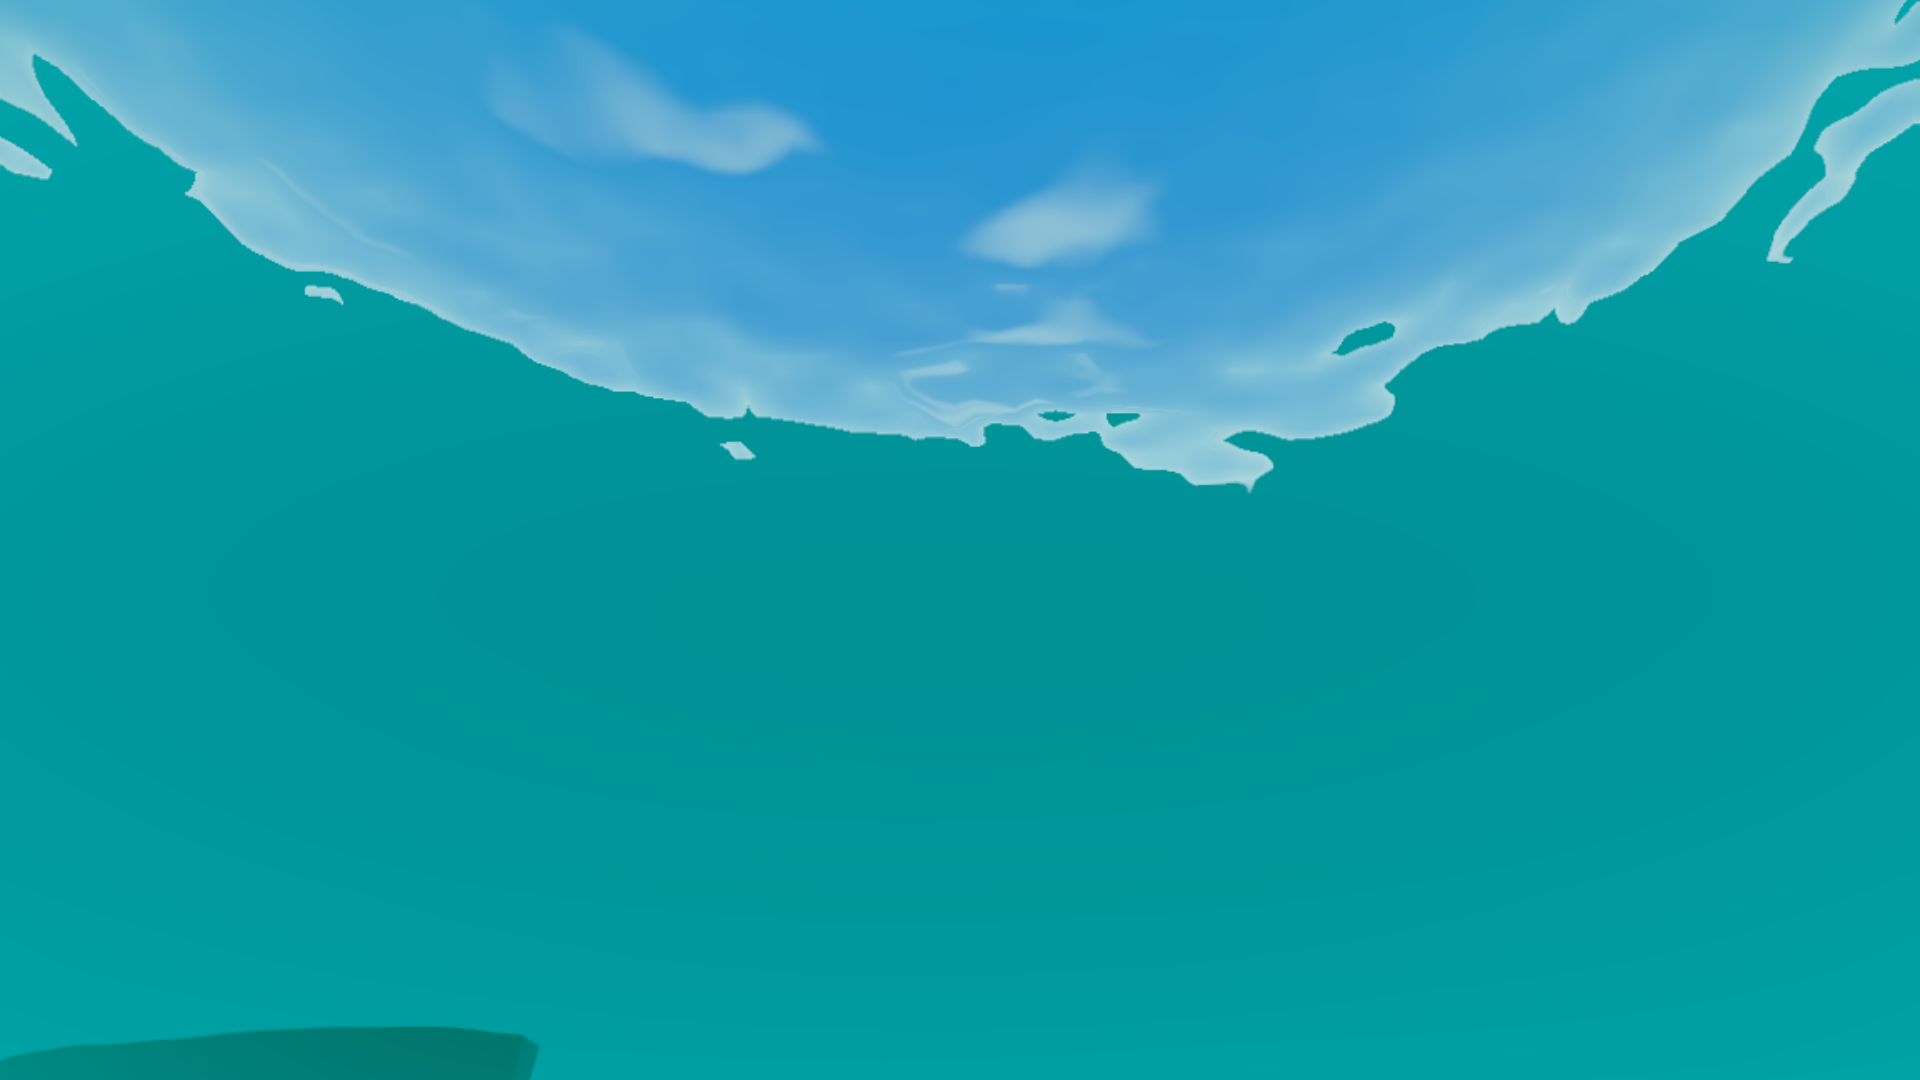
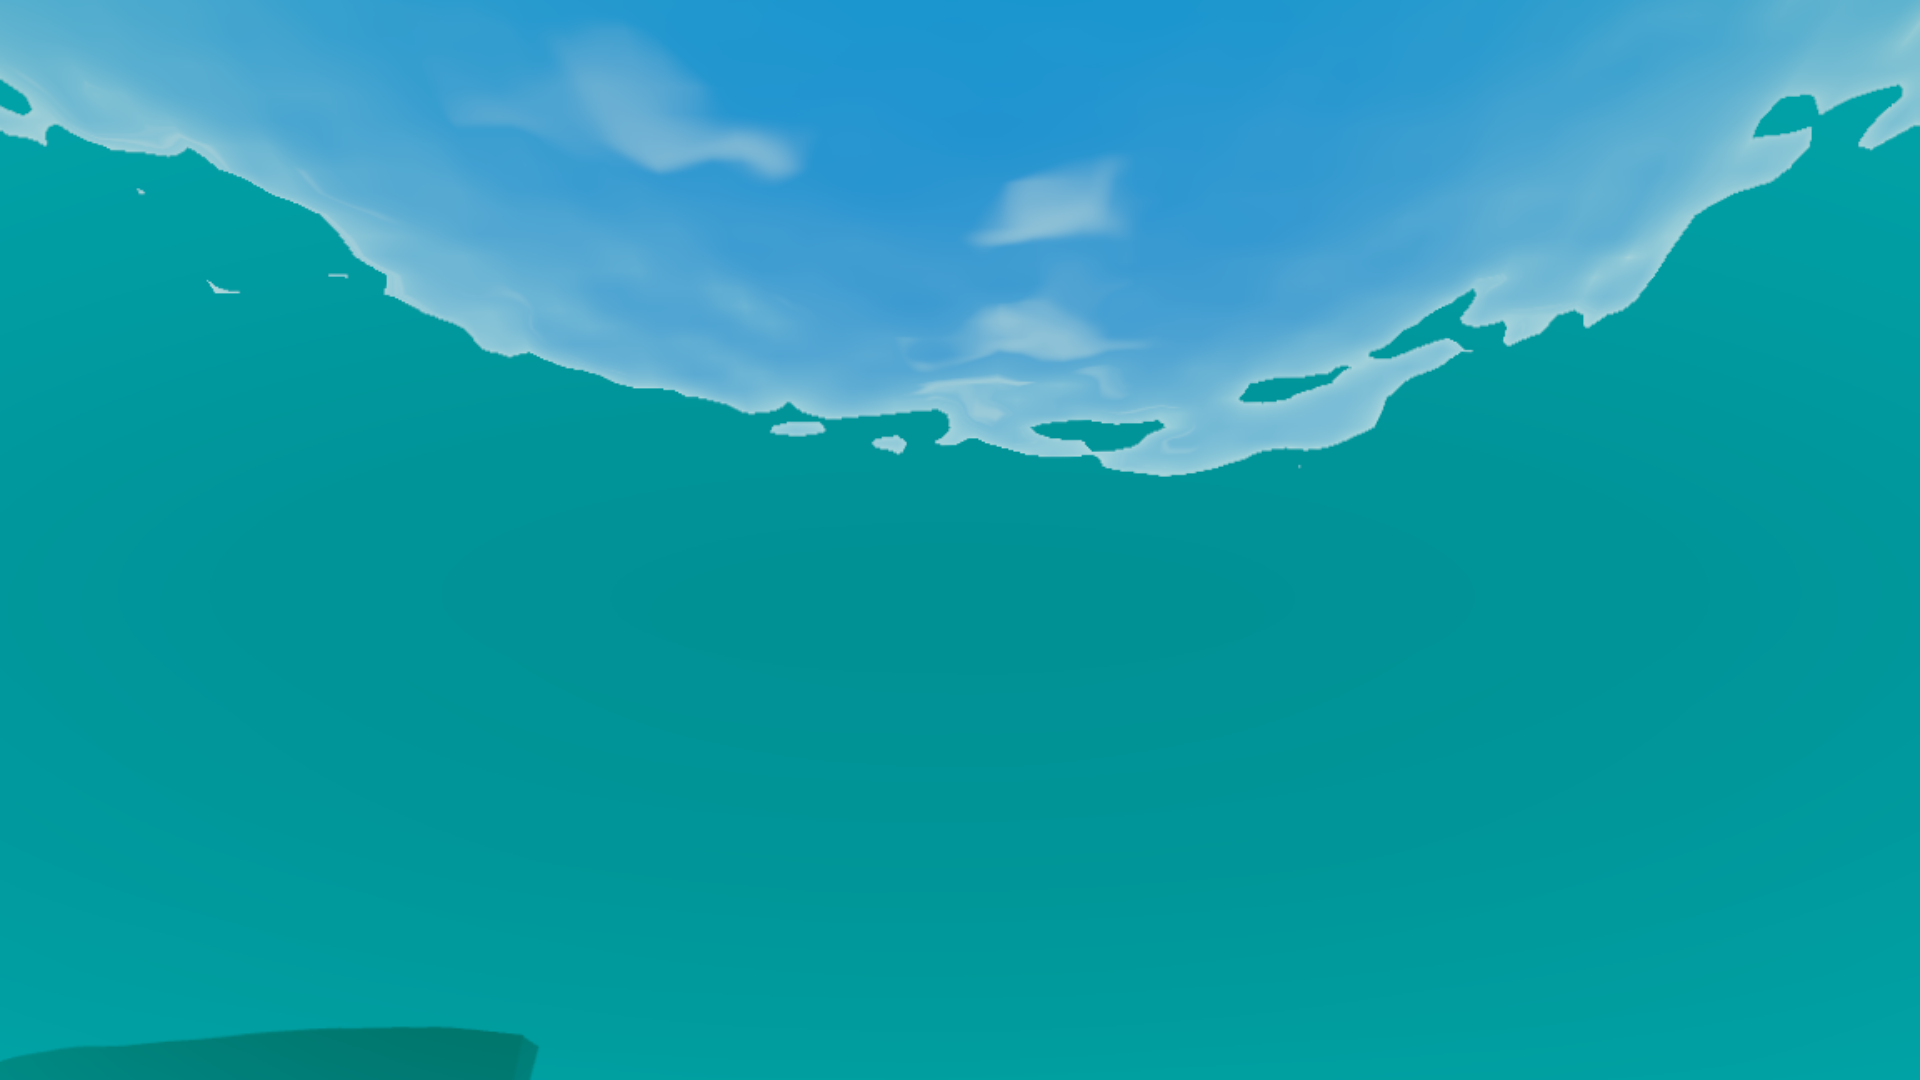
Add a Kelvin wake, and fix the hull-frame rotation it exposed
Rather than paint a trail behind a moored boat, she now makes about three
knots along her heading. The wake then has a cause, and the scene has
something moving in it that is not the water.

The two arms sit at a fixed angle from the track — about 19.5 degrees for
any displacement hull at any speed, which is the whole reason a wake is
recognisable at all. They carry the shape; the centre trail is churn, so it
spreads and dies much faster. She wraps on a long lattice relative to the
viewer, like the buoys, so she can sail indefinitely without leaving the
world.

Writing the wake meant working in the hull's own frame, and checking that
rotation by hand turned up a bug that has been there since the footprint
was written: the transpose had the sign wrong on one term, so it rotated by
-2h instead of -h. It is correct only when the heading is zero — which is
exactly the case anyone testing it would try first. Feeding it the bow
direction returned (-0.909, -0.416) where it owed (0, 1). The foam collar
and the hull shadow have been sitting skewed off the hull this whole time.

Side effect worth recording: once she moved, every fixed-camera inspection
view photographed empty water. __set({vesselHove: true}) holds her, and
setState uses it. It leaves the wake uniform alone, so the stills still
show the wake.

Measured: 1920x1080 at 60 fps on every preset, underwater back to 60, 4K
Ultra 52.02 ms. Console errors 0.

diff --git a/src/ocean/material.js b/src/ocean/material.js
@@ -19,7 +19,7 @@
 
 import { DoubleSide, FrontSide, Mesh, MeshBasicNodeMaterial } from 'three/webgpu';
 import {
-	Fn, If, cameraPosition, dot, exp, faceDirection, float, length, max, min, mix,
+	Fn, If, abs, cameraPosition, dot, exp, faceDirection, float, length, max, min, mix,
 	mx_fractal_noise_float, normalize, oneMinus, positionGeometry, positionWorld, pow, reflect,
 	refract, saturate, screenUV, smoothstep, step, texture, varyingProperty, vec2, vec3,
 } from 'three/tsl';
@@ -355,6 +355,7 @@ export function createOceanMaterial( env, field, sky, opts = {} ) {
 		// the centreline, 1 at the planking. Cheap because the heading is baked
 		// into the geometry, so the footprint is an axis-aligned ellipse.
 		const hullD = float( 4.0 ).toVar( 'hullD' );
+		const hullLocalOut = vec2( 0.0, 0.0 ).toVar( 'hullLocalOut' );
 
 		If( u.vesselMix.greaterThan( 0.001 ), () => {
 
@@ -367,13 +368,20 @@ export function createOceanMaterial( env, field, sky, opts = {} ) {
 			// would otherwise throw it to the horizon.
 			const drop = u.sunDir.xz.div( max( u.sunDir.y, float( 0.30 ) ) ).mul( 1.4 );
 			const rel = P.xz.sub( u.vesselPos.xz ).add( drop ).toVar( 'hullRel' );
-			const c = u.vesselDir.x, sn = u.vesselDir.y;
-			const local = vec2(
-				rel.x.mul( c ).add( rel.y.mul( sn ) ),
-				rel.x.mul( sn ).negate().add( rel.y.mul( c ) )
-			).div( u.vesselHalf );
 
-			hullD.assign( length( local ) );
+			// Rotate world XZ into the hull's frame: x across the beam, y toward the
+			// bow. The transpose of this had the sign on the wrong term, which
+			// rotates by -2h instead of -h — it maps correctly only when the heading
+			// is zero, which is exactly the case anyone testing it would try first.
+			// The footprint ellipse has been skewed off the hull since it was written.
+			const c = u.vesselDir.x, sn = u.vesselDir.y;
+			const hullLocal = vec2(
+				rel.x.mul( c ).sub( rel.y.mul( sn ) ),
+				rel.x.mul( sn ).add( rel.y.mul( c ) )
+			).toVar( 'hullLocal' );
+
+			hullD.assign( length( hullLocal.div( u.vesselHalf ) ) );
+			hullLocalOut.assign( hullLocal );
 
 			// The hull blocks the sky and the sun from the water under and beside
 			// it. Without this the boat looks pasted on: it is the darkening in the
@@ -426,7 +434,24 @@ export function createOceanMaterial( env, field, sky, opts = {} ) {
 			// Torn by the same two noise scales as wave foam. A clean ring around
 			// the hull is unmistakably a drawn outline; aeration is patchy.
 			const torn = foamFine.mul( 0.55 ).add( foamPatch.mul( 0.45 ) ).add( 0.30 );
-			foamRaw.assign( max( foamRaw, collar.mul( torn ).mul( 1.5 ) ) );
+
+			/* --- wake ---------------------------------------------------- */
+
+			// Metres astern of the transom, and metres off the track.
+			const astern = max( hullLocalOut.y.negate().sub( u.vesselHalf.y.mul( 0.75 ) ), float( 0.0 ) ).toVar( 'wakeAstern' );
+			const across = abs( hullLocalOut.x ).toVar( 'wakeAcross' );
+
+			// The two Kelvin arms sit on a fixed half-angle from the track — about
+			// 19.5 degrees for any displacement hull at any speed, which is why a
+			// wake is recognisable at all. They are the shape; the centre trail is
+			// just churn, so it spreads and fades much faster.
+			const arm = exp( abs( across.sub( astern.mul( 0.354 ) ) ).mul( - 1.15 ) );
+			const trail = exp( across.div( astern.mul( 0.16 ).add( 1.6 ) ).mul( - 1.5 ) );
+
+			const decay = exp( astern.mul( - 0.021 ) ).mul( smoothstep( 0.0, 2.5, astern ) );
+			const wake = arm.mul( 0.80 ).add( trail.mul( 0.55 ) ).mul( decay ).mul( u.vesselSpeed ).toVar( 'wake' );
+
+			foamRaw.assign( max( foamRaw, collar.add( wake ).mul( torn ).mul( 1.45 ) ) );
 
 		} );
 

diff --git a/src/props/vessel.js b/src/props/vessel.js
@@ -38,6 +38,9 @@ const DRAFT = 2.05;
 /** How far the finished hull is dropped so she floats on her lines. */
 const SINK = 1.35;
 
+/** How far she may drift from the viewer before wrapping to the other side. */
+const LATTICE = 900;
+
 /** Half-beam at parametric station t, 0 = transom, 1 = stem. */
 function halfBeam( t ) {
 
@@ -364,6 +367,15 @@ export class Vessel {
 		env.u.vesselPos.value.set( anchor[ 0 ], 0, anchor[ 1 ] );
 		env.u.vesselHalf.value.set( BEAM / 2 - 0.05, ( LENGTH_AFT + LENGTH_FWD ) / 2 - 0.6 );
 		env.u.vesselDir.value.set( Math.cos( heading ), Math.sin( heading ) );
+		env.u.vesselSpeed.value = 1;
+
+		// Bow direction in world XZ. rotateY(h) maps the hull's +Z to this.
+		this._bow = [ Math.sin( heading ), Math.cos( heading ) ];
+		this._travel = 0;
+
+		// QA holds her still so the fixed inspection views stay repeatable. The
+		// wake uniform is untouched, so the shots still show it.
+		this.hove = false;
 
 	}
 
@@ -384,7 +396,10 @@ export class Vessel {
 
 		material.positionNode = Fn( () => {
 
-			const anchor = vec2( this.anchor[ 0 ], this.anchor[ 1 ] );
+			// Live, because she sails. A baked constant would have pinned the hull
+			// while the wake and the waterline foam — which read the uniform —
+			// walked away from her.
+			const anchor = u.vesselPos.xz.toVar( 'vesAnchor' );
 
 			const disp = vec3( 0, 0, 0 ).toVar( 'vesDisp' );
 			const slope = vec2( 0, 0 ).toVar( 'vesSlope' );
@@ -513,6 +528,32 @@ export class Vessel {
 		} )();
 
 		return material;
+
+	}
+
+	/**
+	 * Make way.
+	 *
+	 * A wake needs a cause. Rather than paint a trail behind a moored boat, she
+	 * makes about three knots along her heading — slow enough that the one-point
+	 * wave sampling still looks settled, fast enough that the Kelvin arms have
+	 * something to be the wake *of*.
+	 *
+	 * She wraps on a long lattice relative to the viewer, like the buoys, so she
+	 * can sail indefinitely without ever sailing out of the world. The wrap is
+	 * several hundred metres out, where haze has taken the contrast anyway.
+	 */
+	update( camera, dt ) {
+
+		if ( ! this.hove ) this._travel += dt * 1.55;
+
+		const bx = this.anchor[ 0 ] + this._bow[ 0 ] * this._travel;
+		const bz = this.anchor[ 1 ] + this._bow[ 1 ] * this._travel;
+
+		const x = bx + Math.round( ( camera.position.x - bx ) / LATTICE ) * LATTICE;
+		const z = bz + Math.round( ( camera.position.z - bz ) / LATTICE ) * LATTICE;
+
+		this.env.u.vesselPos.value.set( x, 0, z );
 
 	}
 

diff --git a/src/core/diagnostics.js b/src/core/diagnostics.js
@@ -280,6 +280,13 @@ export function installQAHooks( app ) {
 		// autoQuality:false was silently ignored, and every performance number was
 		// measured at whatever resolution the auto-scaler had already dropped to —
 		// which is exactly the kind of measurement that looks like data and is not.
+		if ( patch.vesselHove !== undefined && app.vessel ) {
+
+			app.vessel.hove = !! patch.vesselHove;
+			if ( patch.vesselHove ) app.vessel._travel = 0;
+
+		}
+
 		for ( const key of [ 'autoQuality', 'resolutionScale', 'showStats' ] ) {
 
 			if ( patch[ key ] !== undefined ) app.setSetting( key, patch[ key ] );

diff --git a/src/env/uniforms.js b/src/env/uniforms.js
@@ -191,6 +191,7 @@ export function createEnv() {
 		vesselHalf: uniform( new Vector2( 2.3, 7.6 ) ),   // half-beam, half-length
 		vesselDir: uniform( new Vector2( 1, 0 ) ),        // (cos, sin) of the heading
 		vesselMix: uniform( 0 ),                          // 0 when no vessel is present
+		vesselSpeed: uniform( 0 ),                        // 0..1, how hard she is pushing a wake
 
 		/* underwater */
 		uwTint: uniform( new Color() ),

diff --git a/src/main.js b/src/main.js
@@ -616,6 +616,7 @@ class App {
 		this.underwaterPipeline?.setCameraDepth( Math.max( 0, this.surfaceY - this.camera.position.y ) );
 
 		this.buoys?.update( this.camera );
+		this.vessel?.update( this.camera, this.paused ? 0 : this._frameDt );
 		this.seabed?.update( this.camera );
 		this.particles?.update( this.camera, dt, this.underwaterFactor );
 

diff --git a/README.md b/README.md
@@ -47,6 +47,9 @@ WebGPU를 우선 사용하고, 사용할 수 없으면 같은 코드베이스가
   모델도 텍스처도 없다. 15 m 선체는 자기 길이보다 짧은 파도를 따라갈 수 없으므로 가장 긴
   캐스케이드만 샘플하고, **수면 아래 부분만 자기 위치의 수면 높이에 맞춰 휜다** — 강체로
   두면 선체 밑으로 하늘이 보인다. 수면 쪽에는 흘수선 포말 칼라와 물기둥 그림자가 붙는다.
+- **항적** — 배는 약 3노트로 항주한다. 변위선체의 Kelvin 각(약 19.5°)은 속도와 무관하므로
+  두 팔은 고정 각으로 뻗고, 가운데 교란만 퍼지며 빨리 사라진다. 항적이 알아볼 수 있는 형태인
+  이유가 그 각도다.
 - **평면 반사** — 배와 부표만 1/2 해상도로 한 번 더 그린다. 카메라 행렬을 `diag(1,-1,1)`로
   반사하면 y=0 거울에 대해 각 화면 좌표가 그대로 대응하므로, 물은 `screenUV`로 읽고
   수면 기울기만큼 흔들면 된다 — 투영 수식도 백엔드 규약 의존도 없다.
